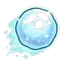
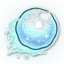
refactor: migrar sprites restantes sin fondo a .webp y remover PNGs duplicados

diff --git a/minijuegos/src/games/SnowBattleGame.ts b/minijuegos/src/games/SnowBattleGame.ts
@@ -186,22 +186,22 @@ export class SnowBattleGame extends BaseGame {
     const base = "./assets/images/";
     this.rodolfoSprites = {
       right: {
-        step1: this.getImage(base + "rodolfo-battle-right-1.png"),
+        step1: this.getImage(base + "rodolfo-battle-right-1.webp"),
         pass: this.getImage(base + "rodolfo-battle-right-pass.png"),
         step2: this.getImage(base + "rodolfo-battle-right-2.png"),
         stop: this.getImage(base + "rodolfo-battle-right-stop.png")
       },
       left: {
-        step1: this.getImage(base + "rodolfo-battle-left-1.png"),
-        pass: this.getImage(base + "rodolfo-battle-left-pass.png"),
-        step2: this.getImage(base + "rodolfo-battle-left-2.png"),
-        stop: this.getImage(base + "rodolfo-battle-left-stop.png")
+        step1: this.getImage(base + "rodolfo-battle-left-1.webp"),
+        pass: this.getImage(base + "rodolfo-battle-left-pass.webp"),
+        step2: this.getImage(base + "rodolfo-battle-left-2.webp"),
+        stop: this.getImage(base + "rodolfo-battle-left-stop.webp")
       },
       down: {
         step1: this.getImage(base + "rodolfo-battle-down-1.png"),
-        pass: this.getImage(base + "rodolfo-battle-down-pass.png"),
+        pass: this.getImage(base + "rodolfo-battle-down-pass.webp"),
         step2: this.getImage(base + "rodolfo-battle-down-2.png"),
-        stop: this.getImage(base + "rodolfo-battle-down-stop.png")
+        stop: this.getImage(base + "rodolfo-battle-down-stop.webp")
       },
       up: {
         step1: this.getImage(base + "rodolfo-battle-up-1.png"),
@@ -211,7 +211,7 @@ export class SnowBattleGame extends BaseGame {
       }
     };
     this.rodolfoHitImg = this.getImage(base + "rodolfo-battle-hit.png");
-    this.rodolfoDeadImg = this.getImage(base + "rodolfo-battle-dead.png");
+    this.rodolfoDeadImg = this.getImage(base + "rodolfo-battle-dead.webp");
     this.snowmanImg = this.getImage(base + "snowman-evil-1.webp");
     this.snowmanImg2 = this.getImage(base + "snowman-evil-2.webp");
     this.snowmanHitImg = this.getImage(base + "snowman-evil-hit.webp");
@@ -219,8 +219,8 @@ export class SnowBattleGame extends BaseGame {
     this.snowmanDeadImg = this.getImage(base + "snowman-evil-dead.webp");
     this.elfImg = this.getImage(base + "elf-mischief-1.png");
     this.elfImg2 = this.getImage(base + "elf-mischief-2.png");
-    this.elfHitImg = this.getImage(base + "elf-mischief-hit.png");
-    this.elfAtkImg = this.getImage(base + "elf-mischief-attack.png");
+    this.elfHitImg = this.getImage(base + "elf-mischief-hit.webp");
+    this.elfAtkImg = this.getImage(base + "elf-mischief-attack.webp");
     this.yetiImg = this.getImage(base + "yeti-boss-1.webp");
     this.yetiImg2 = this.getImage(base + "yeti-boss-2.webp");
     this.yetiHitImg = this.getImage(base + "yeti-boss-hit.webp");

diff --git a/minijuegos/src/games/SantaSkiGame.ts b/minijuegos/src/games/SantaSkiGame.ts
@@ -246,7 +246,7 @@ export class SantaSkiGame extends BaseGame {
 
     // Sprites 2D unificados de Santa (mismo estilo, proporciones y modelo de personaje)
     this.santaStraightImg = this.getImage("./assets/images/santa-ski-straight.png");
-    this.santaStraight2Img = this.getImage("./assets/images/santa-ski-straight-2.png");
+    this.santaStraight2Img = this.getImage("./assets/images/santa-ski-straight-2.webp");
     this.santaLeftImg = this.getImage("./assets/images/santa-ski-left.png");
     this.santaRightImg = this.getImage("./assets/images/santa-ski-right.png");
     this.santaJumpImg = this.getImage("./assets/images/santa-ski-jump.png");
